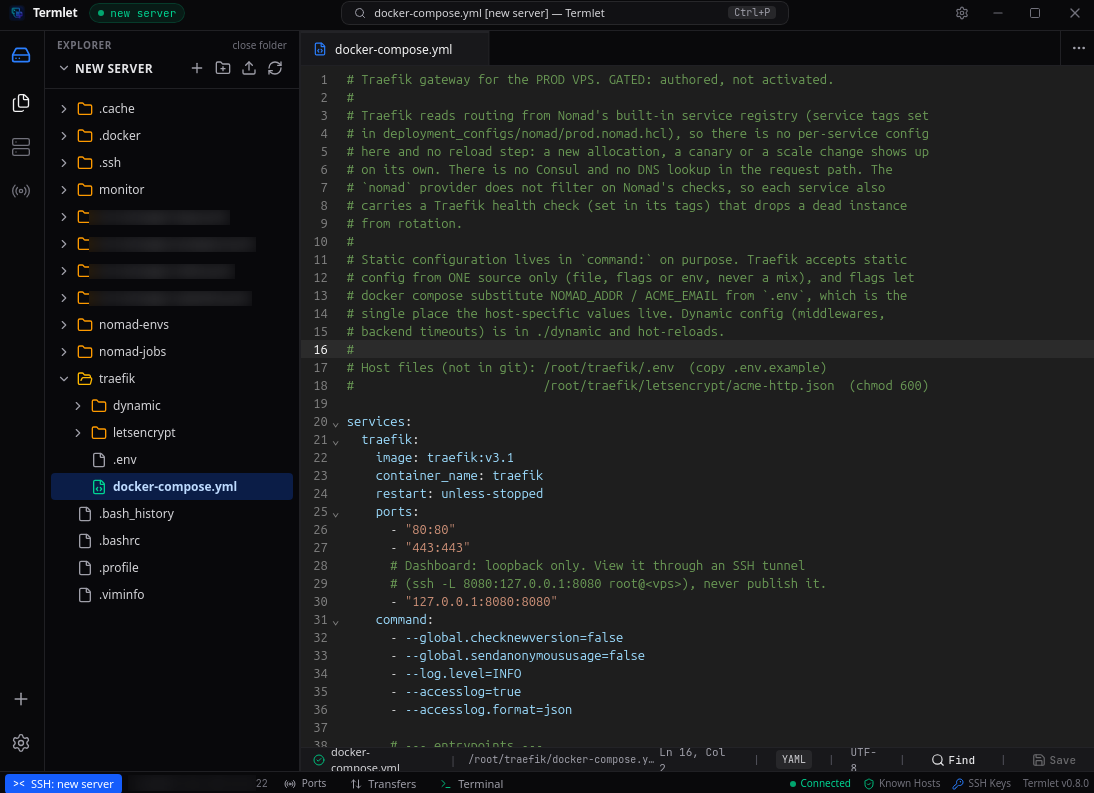
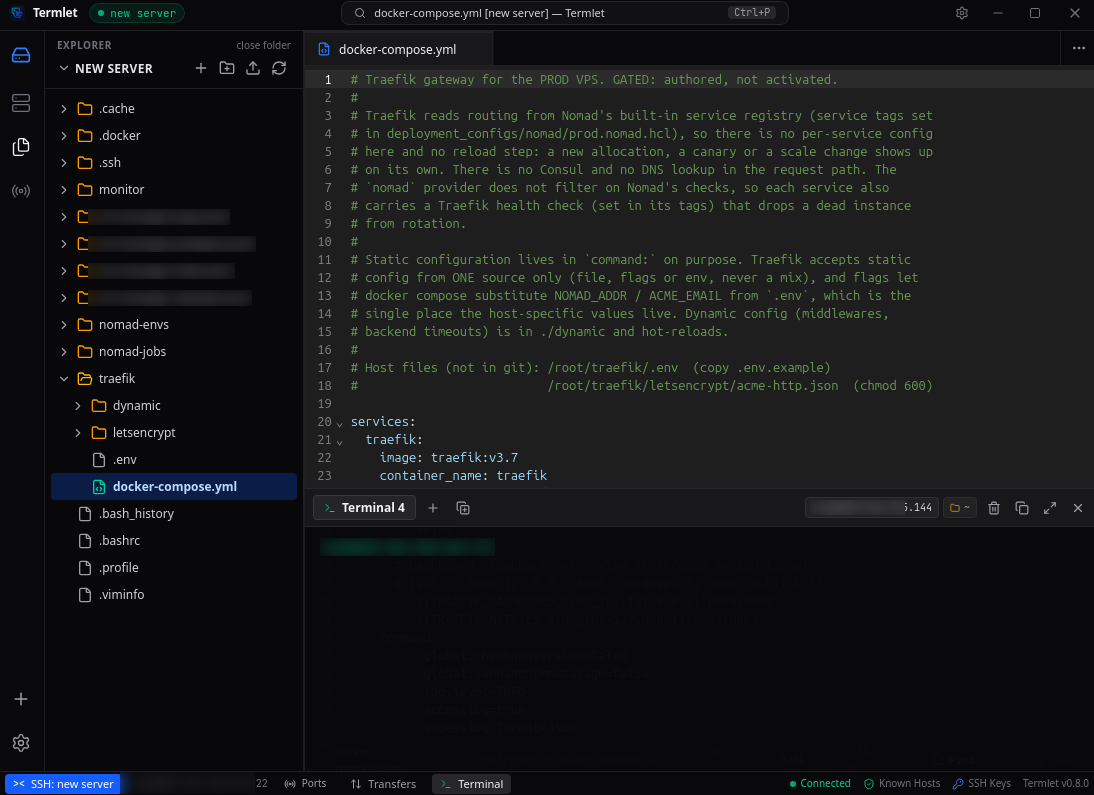
chore(release): bump version to v0.9.0, update sanitized screenshot, and publish release notes

diff --git a/frontend/src/App.tsx b/frontend/src/App.tsx
@@ -87,7 +87,7 @@ export function App() {
   const [updateInfo, setUpdateInfo] = useState<updater.UpdateInfo | null>(null);
   const [isCheckingUpdate, setIsCheckingUpdate] = useState(false);
   const [showUpdateToast, setShowUpdateToast] = useState(false);
-  const [appVersion, setAppVersion] = useState('0.8.0');
+  const [appVersion, setAppVersion] = useState('0.9.0');
   const [activePortsCount, setActivePortsCount] = useState<number>(0);
   const [droppedSession, setDroppedSession] = useState<DroppedSessionInfo | null>(null);
   const [transferDrawerOpen, setTransferDrawerOpen] = useState(false);

diff --git a/frontend/src/components/SettingsView.tsx b/frontend/src/components/SettingsView.tsx
@@ -87,7 +87,7 @@ export const SettingsView: React.FC<SettingsViewProps> = ({
 }) => {
   const confirm = useConfirm();
   const [searchQuery, setSearchQuery] = useState('');
-  const [appVersion, setAppVersion] = useState('0.8.0');
+  const [appVersion, setAppVersion] = useState('0.9.0');
   const [localCheckingUpdates, setLocalCheckingUpdates] = useState(false);
   const [localUpdateInfo, setLocalUpdateInfo] = useState<updater.UpdateInfo | null>(null);
   const [hasCheckedUpdates, setHasCheckedUpdates] = useState(false);

diff --git a/internal/updater/updater.go b/internal/updater/updater.go
@@ -167,7 +167,7 @@ func isTargetWritable(targetPath string) bool {
 func CheckForUpdate(ctx context.Context) (*UpdateInfo, error) {
 	currentVer := version.Version
 	if currentVer == "" {
-		currentVer = "0.8.0"
+		currentVer = "0.9.0"
 	}
 	installType := DetectInstallationType()
 

diff --git a/internal/version/version.go b/internal/version/version.go
@@ -2,4 +2,4 @@ package version
 
 // Version is the current version of Termlet.
 // Can be overridden at build time via -ldflags "-X termlet/internal/version.Version=vX.Y.Z".
-var Version = "0.8.0"
+var Version = "0.9.0"

diff --git a/RELEASE_NOTES.md b/RELEASE_NOTES.md
@@ -1,39 +1,49 @@
-# Termlet v0.8.0 💻
+# Termlet v0.9.0 💻
 
-Termlet **v0.8.0** introduces a high-performance, interactive **Remote SSH Command Runner & Terminal Drawer** with stateful working directory persistence, live SFTP directory tree synchronization, interactive TTY interception, and instant cancellation.
+Termlet **v0.9.0** brings a major UX and productivity upgrade across the entire workspace, introducing a **Multi-Tab Remote Terminal** runner, real **Line-Based Shell Stream** with multi-line command continuation (`\` & Shift+Enter), **VS Code Style Draggable Resizing** for both the terminal drawer and sidepanel, unified sidebar width, and tab management polish.
 
 ---
 
 ### ✨ What's New & Highlights
 
-#### 💻 Interactive Remote SSH Terminal Runner & Drawer
-- **Persistent Bottom Terminal Drawer**:
-  - Open a sleek, embedded remote terminal runner directly beneath your SSH file workspace using the shortcut `Ctrl+\`` or the bottom Status Bar **Terminal** toggle button.
-  - Seamlessly runs remote shell commands against the active SSH connection without needing an external terminal emulator or third-party tools.
-- **Stateful Remote Working Directory Tracking (`cd` Persistence)**:
-  - Preserves working directory across command executions. If you execute `cd /var/log && pwd`, subsequent commands execute within `/var/log`.
-  - Captures the exact physical directory using POSIX-compliant `pwd -P` and cleanly propagates working directory changes.
-- **Bi-directional SFTP Explorer & Workspace Synchronization**:
-  - Whenever the remote directory changes inside the terminal runner (e.g. `cd /etc/nginx`), Termlet's remote SFTP tree and navigation breadcrumb automatically sync and reload to that directory in real time.
-- **Interactive TTY Interception & Smart Editor Hints**:
-  - Inline subshells cannot run full-screen interactive curses/TTY applications without freezing or sending unprintable terminal escape sequences.
-  - Commands requiring an interactive TTY (e.g. `vim`, `vi`, `nvim`, `nano`, `emacs`, `top`, `htop`, `btop`, `less`, `more`, `man`) are intelligently intercepted before execution.
-  - Termlet provides an actionable hint suggesting the graphical inline code editor, Quick Open (`Ctrl+P`), or non-interactive alternatives like `cat` or `ps aux`.
-- **Instant In-Flight Command Interruption (`Ctrl+C` / UI Cancel)**:
-  - Stop running commands immediately by pressing `Ctrl+C` or clicking the **Cancel** button.
-  - Closes the active SSH execution channel instantly without dropping the main SSH connection or disrupting file transfers.
-  - Respects standard clipboard text selection when pressing `Ctrl+C`.
-- **Exit Code Reporting & Error Styling**:
-  - Displays exit codes for commands that return non-zero exit statuses.
-  - Failed command output is styled with a distinct rose accent and border (`border-rose-500/30`), while quiet commands that exit non-zero (such as `false` or `diff`) display explicit `[Process exited with code X]` tags.
-- **Output Safety & Memory Limits**:
-  - Strips ANSI color codes for clean typography.
-  - Protects webview DOM performance by truncating outputs exceeding 100,000 characters with an alert marker.
-- **Terminal History & Productivity Shortcuts**:
-  - Browse command history with `Up` and `Down` arrow keys.
-  - Quick screen clear via `clear` command, `Ctrl+L`, or the trash button.
-  - One-click **Copy All Output** to clipboard.
-  - Maximize / restore height toggle buttons.
+#### 💻 Multi-Tab Line-Based Terminal Runner
+- **True Line-Based Stream**:
+  - Replaced the detached bottom input box with a real terminal emulator stream where the prompt (`username@host:path$ [cursor]`) follows output directly inline.
+  - History entries render as authentic prompt lines with working directory context.
+  - Pressing Enter on an empty line naturally emits a fresh prompt on the next line; pressing Ctrl+C prints `^C` inline and resets the prompt.
+- **Multi-Line Command Continuation (`\` and Shift+Enter)**:
+  - Write multi-line commands using standard trailing backslash `\` (e.g. `docker run -d \`) or Shift+Enter.
+  - Continuation lines render with secondary shell prompt (`> `) matching real Bash/Zsh behavior.
+  - Pressing Backspace on an empty continuation prompt pops the previous line back into the active input for easy editing.
+  - Smart multi-line paste support: pasting multi-line scripts or command blocks automatically parses them into continuation lines and active input ready to inspect and run.
+- **Multiple Concurrent Terminal Tabs**:
+  - Open multiple concurrent terminals (`Terminal 1`, `Terminal 2`, etc.) multiplexed over the same SSH connection.
+  - Each tab maintains independent remote working directory (`CWD`), history, and command execution state.
+  - Run long-running tasks in one tab while executing commands concurrently in another.
+- **Tab Management Polish**:
+  - **Double-Click to Rename**: Double-click any tab title to rename it to something custom like `docker`, `web-server`, or `logs`.
+  - **Duplicate Tab**: Dedicated button next to `+` to duplicate active tab in its current remote working directory.
+  - **Horizontal Wheel & Arrow Scrolling**: Scroll horizontally with your mouse wheel, click left/right navigation arrows, and enjoy smooth automatic centering on the active tab.
+  - **Local `exit` / `logout` Handling**: Typing `exit` or `logout` cleanly closes the active tab (or drawer if last tab).
+
+#### 📐 Workspace Layout & Resizing
+- **VS Code Style Drag-to-Resize Drawer**:
+  - Drag the top border of the terminal drawer to adjust height smoothly between 100px and `workspaceHeight - 50px`.
+  - Double-click the resize handle to toggle maximize / restore height.
+  - Height is saved across app restarts.
+- **Draggable Sidepanel & Unified Width**:
+  - Added a draggable vertical resize handle on the right border of the sidepanel.
+  - Clamped smoothly between 180px and 60% of the window width, with double-click reset to default (270px).
+  - Unified width across **Explorer**, **Ports**, and **Profiles** views, eliminating previous width jumping.
+- **Workspace-Scoped Drawer**:
+  - Terminal drawer sits strictly inside the editor workspace to the right of the sidebar, never covering the ActivityBar or file tree.
+- **ActivityBar Tab Reordering**:
+  - Moved **Remote Profiles & Sessions** (`Server` icon) to the very top above **Explorer** (`Files` icon), defaulting to connections on app startup for instant server selection.
+
+#### ⚡ Port Forwarding Stability
+- **Deterministic Port List Ordering**:
+  - Fixed a race condition where Go map iteration randomization caused active/inactive port forwarding cards to continually bounce and swap positions on periodic refresh.
+  - Ports are now stably sorted by local port and ID on both backend and frontend.
 
 ---
 

diff --git a/releases/v0.9.0.md b/releases/v0.9.0.md
@@ -1,0 +1,58 @@
+# Termlet v0.9.0 💻
+
+Termlet **v0.9.0** brings a major UX and productivity upgrade across the entire workspace, introducing a **Multi-Tab Remote Terminal** runner, real **Line-Based Shell Stream** with multi-line command continuation (`\` & Shift+Enter), **VS Code Style Draggable Resizing** for both the terminal drawer and sidepanel, unified sidebar width, and tab management polish.
+
+---
+
+### ✨ What's New & Highlights
+
+#### 💻 Multi-Tab Line-Based Terminal Runner
+- **True Line-Based Stream**:
+  - Replaced the detached bottom input box with a real terminal emulator stream where the prompt (`username@host:path$ [cursor]`) follows output directly inline.
+  - History entries render as authentic prompt lines with working directory context.
+  - Pressing Enter on an empty line naturally emits a fresh prompt on the next line; pressing Ctrl+C prints `^C` inline and resets the prompt.
+- **Multi-Line Command Continuation (`\` and Shift+Enter)**:
+  - Write multi-line commands using standard trailing backslash `\` (e.g. `docker run -d \`) or Shift+Enter.
+  - Continuation lines render with secondary shell prompt (`> `) matching real Bash/Zsh behavior.
+  - Pressing Backspace on an empty continuation prompt pops the previous line back into the active input for easy editing.
+  - Smart multi-line paste support: pasting multi-line scripts or command blocks automatically parses them into continuation lines and active input ready to inspect and run.
+- **Multiple Concurrent Terminal Tabs**:
+  - Open multiple concurrent terminals (`Terminal 1`, `Terminal 2`, etc.) multiplexed over the same SSH connection.
+  - Each tab maintains independent remote working directory (`CWD`), history, and command execution state.
+  - Run long-running tasks in one tab while executing commands concurrently in another.
+- **Tab Management Polish**:
+  - **Double-Click to Rename**: Double-click any tab title to rename it to something custom like `docker`, `web-server`, or `logs`.
+  - **Duplicate Tab**: Dedicated button next to `+` to duplicate active tab in its current remote working directory.
+  - **Horizontal Wheel & Arrow Scrolling**: Scroll horizontally with your mouse wheel, click left/right navigation arrows, and enjoy smooth automatic centering on the active tab.
+  - **Local `exit` / `logout` Handling**: Typing `exit` or `logout` cleanly closes the active tab (or drawer if last tab).
+
+#### 📐 Workspace Layout & Resizing
+- **VS Code Style Drag-to-Resize Drawer**:
+  - Drag the top border of the terminal drawer to adjust height smoothly between 100px and `workspaceHeight - 50px`.
+  - Double-click the resize handle to toggle maximize / restore height.
+  - Height is saved across app restarts.
+- **Draggable Sidepanel & Unified Width**:
+  - Added a draggable vertical resize handle on the right border of the sidepanel.
+  - Clamped smoothly between 180px and 60% of the window width, with double-click reset to default (270px).
+  - Unified width across **Explorer**, **Ports**, and **Profiles** views, eliminating previous width jumping.
+- **Workspace-Scoped Drawer**:
+  - Terminal drawer sits strictly inside the editor workspace to the right of the sidebar, never covering the ActivityBar or file tree.
+- **ActivityBar Tab Reordering**:
+  - Moved **Remote Profiles & Sessions** (`Server` icon) to the very top above **Explorer** (`Files` icon), defaulting to connections on app startup for instant server selection.
+
+#### ⚡ Port Forwarding Stability
+- **Deterministic Port List Ordering**:
+  - Fixed a race condition where Go map iteration randomization caused active/inactive port forwarding cards to continually bounce and swap positions on periodic refresh.
+  - Ports are now stably sorted by local port and ID on both backend and frontend.
+
+---
+
+### 📦 Artifacts Included
+- **Linux**:
+  - `termlet-linux-amd64.deb` (Debian, Ubuntu, Linux Mint, Pop!_OS)
+  - `termlet-linux-amd64.rpm` (Fedora, RHEL, CentOS, openSUSE)
+  - `termlet-linux-amd64.tar.gz` (Portable Linux archive)
+- **Windows**:
+  - `termlet-windows-amd64.zip` (Portable 64-bit Windows archive)
+- **macOS**:
+  - `termlet-darwin-universal.dmg` (Intel & Apple Silicon)

diff --git a/releases/README.md b/releases/README.md
@@ -10,7 +10,8 @@ For the active release currently being compiled or deployed, refer to the root [
 
 | Version | Release Date / Milestone | Highlights | Release Notes |
 | :--- | :--- | :--- | :---: |
-| **v0.8.0** | *Current* | Interactive Remote SSH Command Runner & Terminal Drawer, stateful remote CWD tracking (`cd` persistence), live SFTP tree synchronization, interactive TTY interception & tips, and instant Ctrl+C cancellation | [v0.8.0.md](v0.8.0.md) |
+| **v0.9.0** | *Current* | Multi-tab line-based terminal emulator, multi-line command continuation (`\` & Shift+Enter), VS Code drag-to-resize drawer & sidepanel, unified panel width, ActivityBar reorder, tab rename/duplicate, and stable port list | [v0.9.0.md](v0.9.0.md) |
+| **v0.8.0** | Minor Release | Interactive Remote SSH Command Runner & Terminal Drawer, stateful remote CWD tracking (`cd` persistence), live SFTP tree synchronization, interactive TTY interception & tips, and instant Ctrl+C cancellation | [v0.8.0.md](v0.8.0.md) |
 | **v0.7.8** | Minor Release | In-app SSH Key Pair Generator (Ed25519, RSA, ECDSA), AES-256 passphrase encryption, OpenSSH Drunken Bishop randomart, dedicated SSH Keys tab (`termlet://ssh-keys`), and 1-click remote server deploy (`ssh-copy-id`) | [v0.7.8.md](v0.7.8.md) |
 | **v0.7.7** | Patch Release | SSH Host Key Verification & MitM protection, interactive Trust On First Use modal, dedicated Known Hosts manager tab (`termlet://known-hosts`), hashed hostname privacy support, and TypeScript 7.0 & bundler resolution migration | [v0.7.7.md](v0.7.7.md) |
 | **v0.7.6** | Patch Release | SFTP Transfer Queue & Live Progress Drawer, proactive SSH Keep-Alive & Auto-Reconnect engine, instant 0ms workspace search caching, non-blocking SFTP I/O, file tree context menu fix, and Vite 8 build speedups | [v0.7.6.md](v0.7.6.md) |

diff --git a/README.md b/README.md
@@ -38,11 +38,12 @@ Built with [Wails v2](https://wails.io) (Go) and React 19 + TypeScript, so it sh
 ## Features
 
 - **SSH terminal and profiles**: save servers, use passwords, private keys (with passphrases), or your SSH agent. Host keys are verified, with a warning when a key changes.
-- **SFTP file browser**: browse, create, rename, delete, and upload files on the remote host.
+- **Multi-tab remote terminal**: true line-based stream emulator with multi-tab concurrency, multi-line command continuation (`\` & Shift+Enter), tab renaming, tab duplication, and draggable drawer resizing.
+- **SFTP file browser**: browse, create, rename, delete, and upload files on the remote host with bi-directional terminal CWD sync.
 - **Remote code editor**: CodeMirror 6 with syntax highlighting, multiple tabs, 14 themes, and <kbd>Ctrl</kbd>+<kbd>S</kbd> to save straight to the server. Binary files are detected and not opened.
 - **Local port forwarding** (`ssh -L`): create, start, and stop tunnels from a dedicated view. Forwards are saved with the profile, with one-click "open in browser" and presets for common services (HTTP, Vite, PostgreSQL, MySQL, Redis, Traefik).
 - **Auto-update**: checks GitHub Releases and installs updates in place (`.deb`, `.rpm`, Windows installer, or portable binary).
-- **Polished UI**: frameless window, light and dark themes, and readable error messages with troubleshooting hints.
+- **Polished UI**: frameless window, resizable sidebar and terminal drawer, light and dark themes, and readable error messages with troubleshooting hints.
 
 ## Install
 
